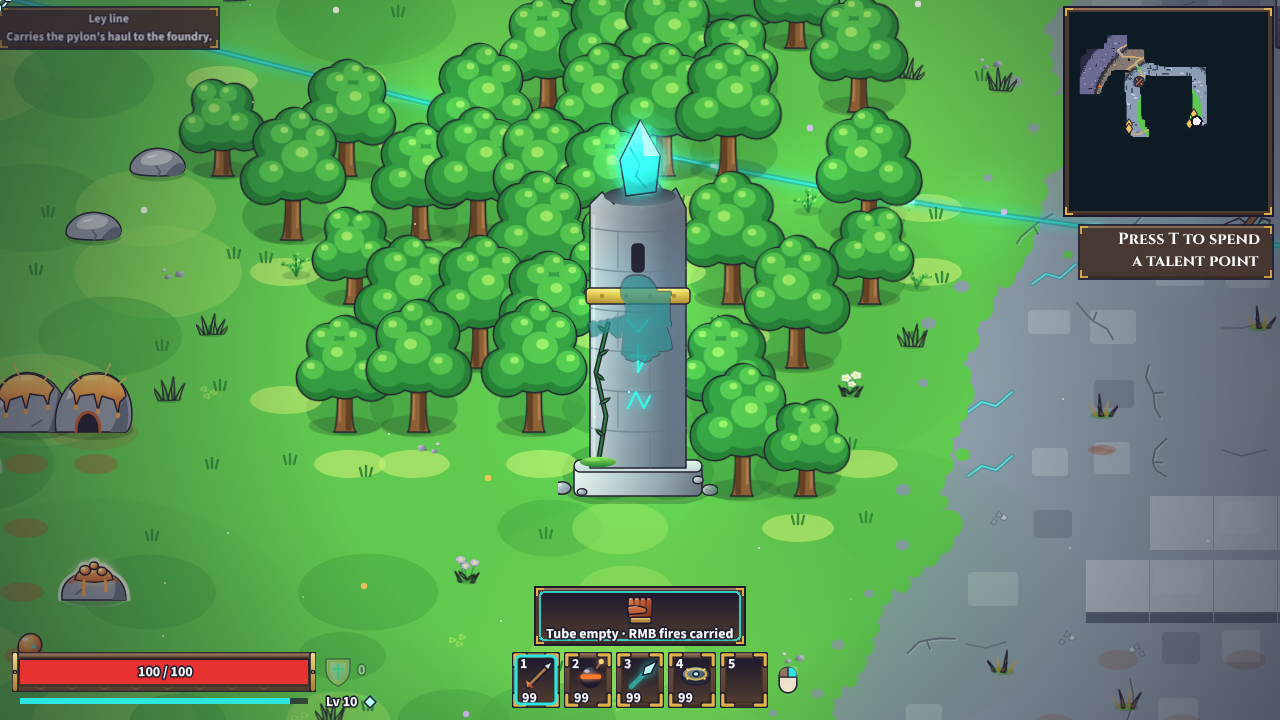
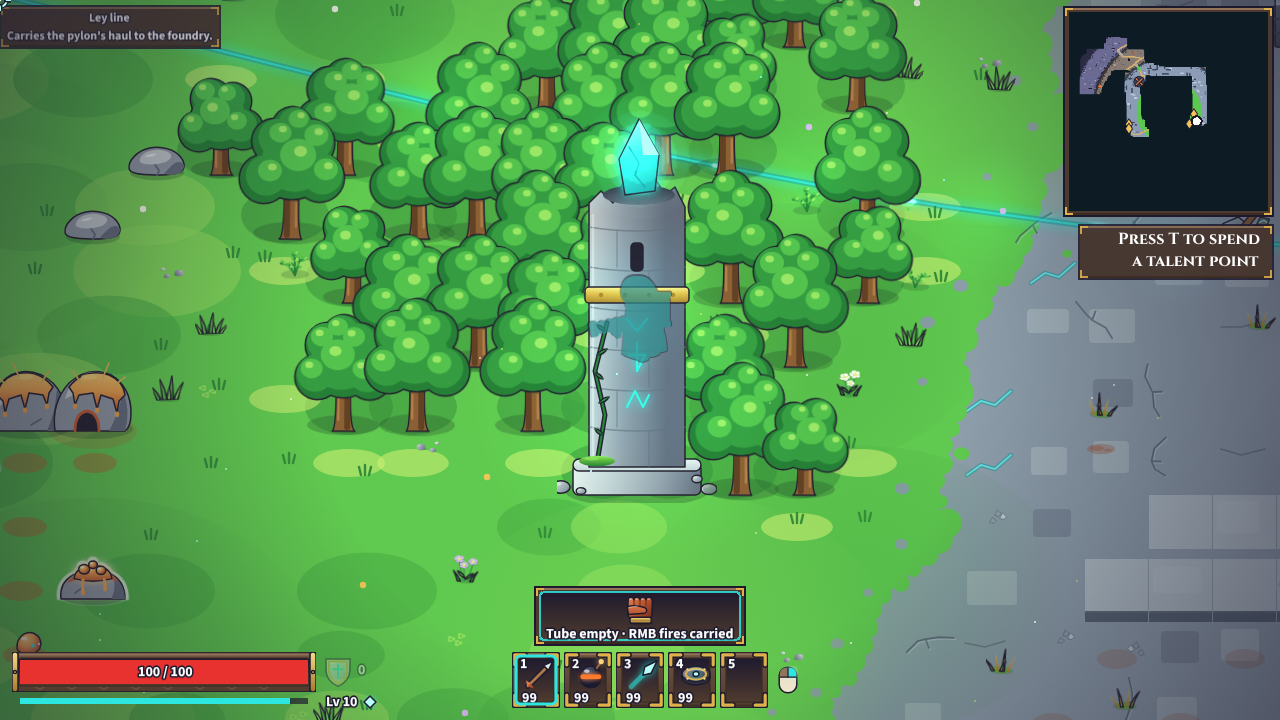
077: review fixes in Results, raised 077.15-077.17; shot 41 from beside the tower
Claude-Session: https://claude.ai/code/session_01SBmmtR6FEqPnQJfSseS96o

diff --git a/tests/e2e/worldLifeShots.spec.ts b/tests/e2e/worldLifeShots.spec.ts
@@ -80,8 +80,8 @@ test.describe('review screenshots (077)', () => {
     await setLook(page, { quality: 'high', flashes: true });
     const tower = setPieceDef('storm-tower');
     const a = setPieceAnchor(tower, 32);
-    // North of it, so its crown sits in the middle of the view and the bolt shows coming down onto it.
-    await walkToAny(page, [{ x: a.x - 60, y: a.y - 200 }, { x: a.x + 60, y: a.y - 200 }, { x: a.x - 90, y: a.y - 120 }]);
+    // Beside it and below its crown, so the crown sits in the upper view and the bolt comes down onto it (not over the player).
+    await walkToAny(page, [{ x: a.x - 90, y: a.y - 120 }, { x: a.x + 90, y: a.y - 120 }, { x: a.x - 120, y: a.y - 90 }]);
     await page.evaluate(() => window.__GAME__?.tweenSpeed(0.02));
     await page.evaluate(async () => {
       const g = window.__GAME__;

diff --git a/docs/specs/077-world-and-weather.md b/docs/specs/077-world-and-weather.md
@@ -309,7 +309,7 @@ Built on `claude/077-world-and-weather` (PR #94) to docs/plans/077-world-and-wea
 
 - **Data:** `src/data/decor.ts` (`DECOR`, `RUIN_VARIANTS`, `DECOR_CLEAR`), `setPieces.ts`, `ambient.ts` (`WIND`, `SWAY`, `RIPPLES`, `LEY_FLOW`), `weather.ts` (`WEATHER`, `WEATHER_CAP`, `WEATHER_BUDGET`, `WEATHER_LIGHTNING`, `WEATHER_SEED`), `worldArtAssets.ts` (re-exported by assets.ts, with `DEPTHS.decor` 0.27 and `DEPTHS.weather`), `SET_PIECE_LIGHTS` in lights.ts, `setPieces` in silhouette.ts. Art: `src/data/art/decor{Meadow,Hollows,Ember,Storm}.ts`, `setPieces{Meadow,Hollows,Ember,Storm}.ts`, `worldArt.ts` (91 new vector frames).
 - **Render:** `src/render/world/` — pure: `decorPlace` (placement, the keep-clear mask, set-piece footprints), `variants`, `sway` (the stepper), `ripples`, `leyFlow`, `wind`, `weatherModel`, `weatherLightning`; Phaser: `DecorView` (per chunk: plants in 160 px square layers shown only near the view, vines, set pieces with loop, sway part and halos), `WaterLeyView`, `WeatherView` (one `ParticleEmitter` per layer, drawing the model), `WorldLife` (the frame), `scatter` (baked into the ground). OverworldView draws ruin variants, skips footprint tiles and files its trees with the sway; tree nodes sway (NodeView); set pieces light (lightSources), name on hover (hoverNames) and hide the player (070); weather lightning goes through 074's `LightPulses.strike` (one flash with a rod strike) and rod-strike light; 014's motes leave the overworld. The hook gains `ui().world`, `ui().weather`, `ui().chunkBuildMs`, `worldLifeOff()` and `strikeWeather()`; dev `?world=off`.
-- **Unit tests** (tests first): `npm run check` green, 319 files, 2741 tests (95 new: tests/data/decor, setPieces, weather; tests/sim/worldDecorReach; tests/render/decorPlace (pinned per region), sway, ripples, leyFlow, weatherSpawn, setPieceHover, noMathRandom).
+- **Unit tests** (tests first): `npm run check` green, 321 files, 2749 tests (103 new: tests/data/decor, setPieces, weather; tests/sim/worldDecorReach; tests/render/decorPlace (pinned per region), sway, ripples, leyFlow, weatherSpawn, wind, worldShown, setPieceHover, noMathRandom).
 - **e2e** (each file alone, `--workers=1`, port 5341): tests/e2e/worldLife.spec.ts (7 tests: decor per region, the set pieces named on hover with their lights on Medium and High and none on Low, the silhouette behind the Storm Tower, sway, ripples and beads, the per-frame bounds, the world off, the same game on Low, High and `?world=off`) and worldWeather.spec.ts (4 tests: weather per region and tier, the budget gate through a 10-kill burst, forced weather lightning and none with Flashes off, on Low or in the Conductor's fight, readability under the rain), green. Kept green locally: lighting, landmarks, art, waypointSteady, newGameAfterQuit, feedback. The full suite runs in CI.
 - **Performance** (worldLifeProbe.spec.ts, `PROBE=1`, headless Chromium on its software renderer, 1280×720, a shared 4-core machine under load from other builds, load average about 5; medians of 2.5 s windows, the A/B interleaved 8 rounds in alternating order):
 
@@ -322,6 +322,7 @@ Built on `claude/077-world-and-weather` (PR #94) to docs/plans/077-world-and-wea
   - A chunk's whole build (bake, standing sprites and decor), 57 chunks each way: 52.2 ms with the world off, 60.9 ms with it (+17%, budget 25%).
   - Boot bake: 91 new frames, 8.2 ms to draw at 2× (the vector atlas bakes them once).
   - Weather on screen: at most 32 (Region 1), 70 (Hollows), 80 (Emberworks) and 160 (Stormcrown) on High, within `WEATHER_CAP`.
+- **Review fixes:** the sway keeps each plant's own cycle (the rate no longer follows the wind, which jumped the phase at gusts and fluttered across region blends late in a session); the wind's strength and lean ease over `SWAY.easeMs` (1 s), and the phase runs along each plant's own region's wind. Unit tests bound the frame-to-frame change across a gust and a blend at 10 minutes in (before: 4.2° and 5.2° a frame; after: under a plant's own swing). Gusts ease in and out (`GUST_EASE_MS`, 300 ms). Weather over a layer's target fades out over `WEATHER_MOTION.overMs` (400 ms) instead of vanishing; `ui().weather.live` counts the particles that count toward the targets and `fading` the rest (the budget counts both). The world report's per-chunk list is worked out only when the hook reads it. Weather lightning skips targets whose bolt would run over the player or that sit under the bottom HUD. The model's and views' literals moved to named data (`WEATHER_MOTION`, `SWAY.hashPhase`/`ivy`/`nodeCycle`, `DECOR.vineHang`, `RIPPLES.ringAcross`/`depthOverGlow`/glint `pool`, `SET_PIECE_BREATHE`). Motion strips on Playwright's fake clock (30 frames over a second): `50-sway-gust-strip.png` (a Stormcrown gust's start, the sampled angle changing at most 0.5° a 33 ms frame) and `51-sway-border-strip.png` (a walk through the Emberworks–Stormcrown border's gap): no snap, pop or flicker. 41 re-taken from beside the tower (the old spot stood in the bolt's column).
 - **Review shots (docs/review/077):** 01–04 each region on Low and High; 05–08 each region's weather on High (the view's middle at twice the size); 10–21 each set piece on High; 30–31 a meadow swaying (two frames); 32 a pond's ripples (and a spring's); 33 a ley line's beads; 40 the Stormcrown on Low; 41 weather lightning striking the Storm Tower (the bolt held on the tween clock, the ambient flash); 42 the silhouette behind the Ley Tower.
 
 ## Raised after the build
@@ -341,3 +342,6 @@ Conservative choices built; items marked **(Shaun)** want a yes or a change at t
 - **077.12 Frame times (Shaun).** High costs 2–3× Low on the software renderer (074.5's per-pixel lights); Medium costs about what Low does. Please try High in the Stormcrown's rain on your laptop.
 - **077.13 Pond ripples are small** (2–10 px across, as specced), one ring every 1.4–2.6 s a pond: they read as a light stir, the springs' cyan rings a little more. If you'd like the ponds livelier, the ring size and rate are data.
 - **077.14 The silhouette and wide set pieces.** 070 tests props standing within 96 px of the player's feet, so behind the widest pieces' far ends (the Unfinished Giant is 200 px wide) the player may not show through; behind their middles they do.
+- **077.15 Weather lightning keeps clear of the player and the HUD (review).** A target is skipped when its bolt would run down over the player (within `WEATHER_LIGHTNING.playerColumn`, 81 px either side: the bolt's spread and jag and half the wanderer, landing lower than 24 px over the player's middle) or land in the bottom HUD's strip (`hudClear`, 66 px). A forced strike had run straight down through the wanderer and ended under the hotbar.
+- **077.16 Gusts don't show in the sway (Shaun).** The sway's wind strength is capped at 1 (`SWAY.maxStrength`), and the Hollows' and Stormcrown's winds are already at it, so their gusts now show only in the dust and the rain's drift; before the review fix they sped the sway up, which is what made it snap. Raising `SWAY.maxStrength` (e.g. to 1.5) would let a gust swell the sway, eased, if you'd like to see it.
+- **077.17 The Stormcrown's grass is hard to see in motion.** In the motion strip its wind-bent grass is dark on dark ground and sparse, so the sway barely reads there; Region 1's meadow shows it (30, 31).

diff --git a/docs/art.md b/docs/art.md
@@ -42,10 +42,10 @@ Render only, and decorative only: nothing here is collision, and no file under `
 - **Kept clear** (`DECOR_CLEAR`): roads and a tile round them, boss arenas, the barrier's band, ramps and gates, 2 tiles round pylons, nodes, altars, arena doors, 072's return stones, caches, springs, the start stone and the foundry's stairs, and the Frozen Grotto.
 - **Ruin variants** (`RUIN_VARIANTS`): new looks for tiles that were already solid, picked in render from the frame `pieceFrame` or a region's picker gives, keeping that frame's shadow so the footprint (059) is the same: Region 1's ruin stones (a toppled column drum, a fallen capital, a leaning rune slab, 3 in 4) and mossy boulders (1 in 5); the Hollows' rubble (a drilled cut block, a broken drum, a heap with scaffold timber, 1 in 4); a broken chimney stump (1 in 6; its fire burns low at its own lip) and a brick pile at a kiln row's east end; bent or snapped iron rods (1 in 6) and cairns with a brass plate or a storm-glass shard (1 in 5).
 - **Set pieces** (`SET_PIECES` in `src/data/setPieces.ts`, art in `src/data/art/setPieces*.ts`): three per region on tiles that already stop feet and shots, the tiles under each drawing no sprite of their own: the Fallen Colossus, the Ley Tower and the Watcher; the Unfinished Giant, the Aqueduct Head and the Great Crane; the Great Furnace, the Great Crucible and the Toppled Stack; the Storm Tower, the Stormcaller and the Wind Harp. Each is a still base (it hides the player, 070's silhouette shows them), with a 4-frame loop drawn over it (the Giant's hanging block, the crane's cradle, the furnace's smoke, the harp's wires; held on Low), the Colossus's ivy swaying, and glow halos on runes and crystals. The Ley Tower's crystal is a ley light, the furnace's mouth and the crucible's glow fires (074's table). Hovering one shows its name.
-- **Wind and sway** (`WIND`, `SWAY` in `src/data/ambient.ts`): one wind per region (a breeze, the Hollows' gusts, the Emberworks' still air, the Stormcrown's gale), blended with the mood. Plants, vines, trees and tree nodes turn about their foot (grass 4°, flowers 3°, ferns and reeds 2.5°, vines 3°, trees 0.6°, plus a lean downwind of a third), the phase rolling along the wind. Only the chunks in view are stepped, at most 300 (Medium) or 600 (High) objects a frame; nothing sways on Low.
+- **Wind and sway** (`WIND`, `SWAY` in `src/data/ambient.ts`): one wind per region (a breeze, the Hollows' gusts, the Emberworks' still air, the Stormcrown's gale), blended with the mood. Plants, vines, trees and tree nodes turn about their foot (grass 4°, flowers 3°, ferns and reeds 2.5°, vines 3°, trees 0.6°, plus a lean downwind of a third), the phase rolling along each plant's own region's wind. Each keeps its own cycle (2.4–3.6 s, trees 4–5 s) whatever the wind: gusts and region blends change only the amplitude and lean, eased over a second, so nothing snaps or flutters. Gusts ease in and out (`GUST_EASE_MS`). Only the chunks in view are stepped, at most 300 (Medium) or 600 (High) objects a frame; nothing sways on Low.
 - **Water and ley**: rings on ponds (`foam`) and springs (`cyan-glow`), up to 12 (Medium) or 20 (High, with twinkling glints); beads of `cyan-glow` running along every ley line toward the foundry (or a vein seam's pylon), one every 4 tiles (Medium, at most 24) or 3 (High, at most 48). None on Low.
-- **Weather** (`WEATHER` in `src/data/weather.ts`): Region 1's pollen and ley motes (replacing 014's map-wide motes in the overworld), the Hollows' dust (faster in gusts), the Emberworks' ash and embers, the Stormcrown's rain (slanted downwind) and High's splashes. One Phaser `ParticleEmitter` per layer, its values from a seeded render-side stream; at most 40, 100 and 160 live (`WEATHER_CAP`), within the particle budget it shares with 076's death motes; Low's counts in a boss fight; crossfading at region edges; drawn over everything standing and under bars, names, prompts and the HUD; never in the foundry or the sandbox.
-- **Weather lightning** (the Stormcrown, Medium and High, Flashes on, never in a boss arena or fight): every 10–22 s a bolt in 064's look strikes the Storm Tower's crown when in view, else an iron rod at least 6 tiles from the player (never near a Rod Field storm rod), else a cairn or cliff top, with 074's ambient flash and rod-strike light.
+- **Weather** (`WEATHER` in `src/data/weather.ts`): Region 1's pollen and ley motes (replacing 014's map-wide motes in the overworld), the Hollows' dust (faster in gusts), the Emberworks' ash and embers, the Stormcrown's rain (slanted downwind) and High's splashes. One Phaser `ParticleEmitter` per layer, its values from a seeded render-side stream; at most 40, 100 and 160 live (`WEATHER_CAP`), within the particle budget it shares with 076's death motes; Low's counts in a boss fight; crossfading at region edges (particles over a layer's new count fade out over `WEATHER_MOTION.overMs` rather than vanish, at tier changes too); drawn over everything standing and under bars, names, prompts and the HUD; never in the foundry or the sandbox.
+- **Weather lightning** (the Stormcrown, Medium and High, Flashes on, never in a boss arena or fight): every 10–22 s a bolt in 064's look strikes the Storm Tower's crown when in view, else an iron rod at least 6 tiles from the player (never near a Rod Field storm rod), else a cairn or cliff top, with 074's ambient flash and rod-strike light; never a target whose bolt would run down over the wanderer or that sits under the bottom HUD.
 
 ## The wanderer
 The player is a hooded wanderer of the lost civilization:
